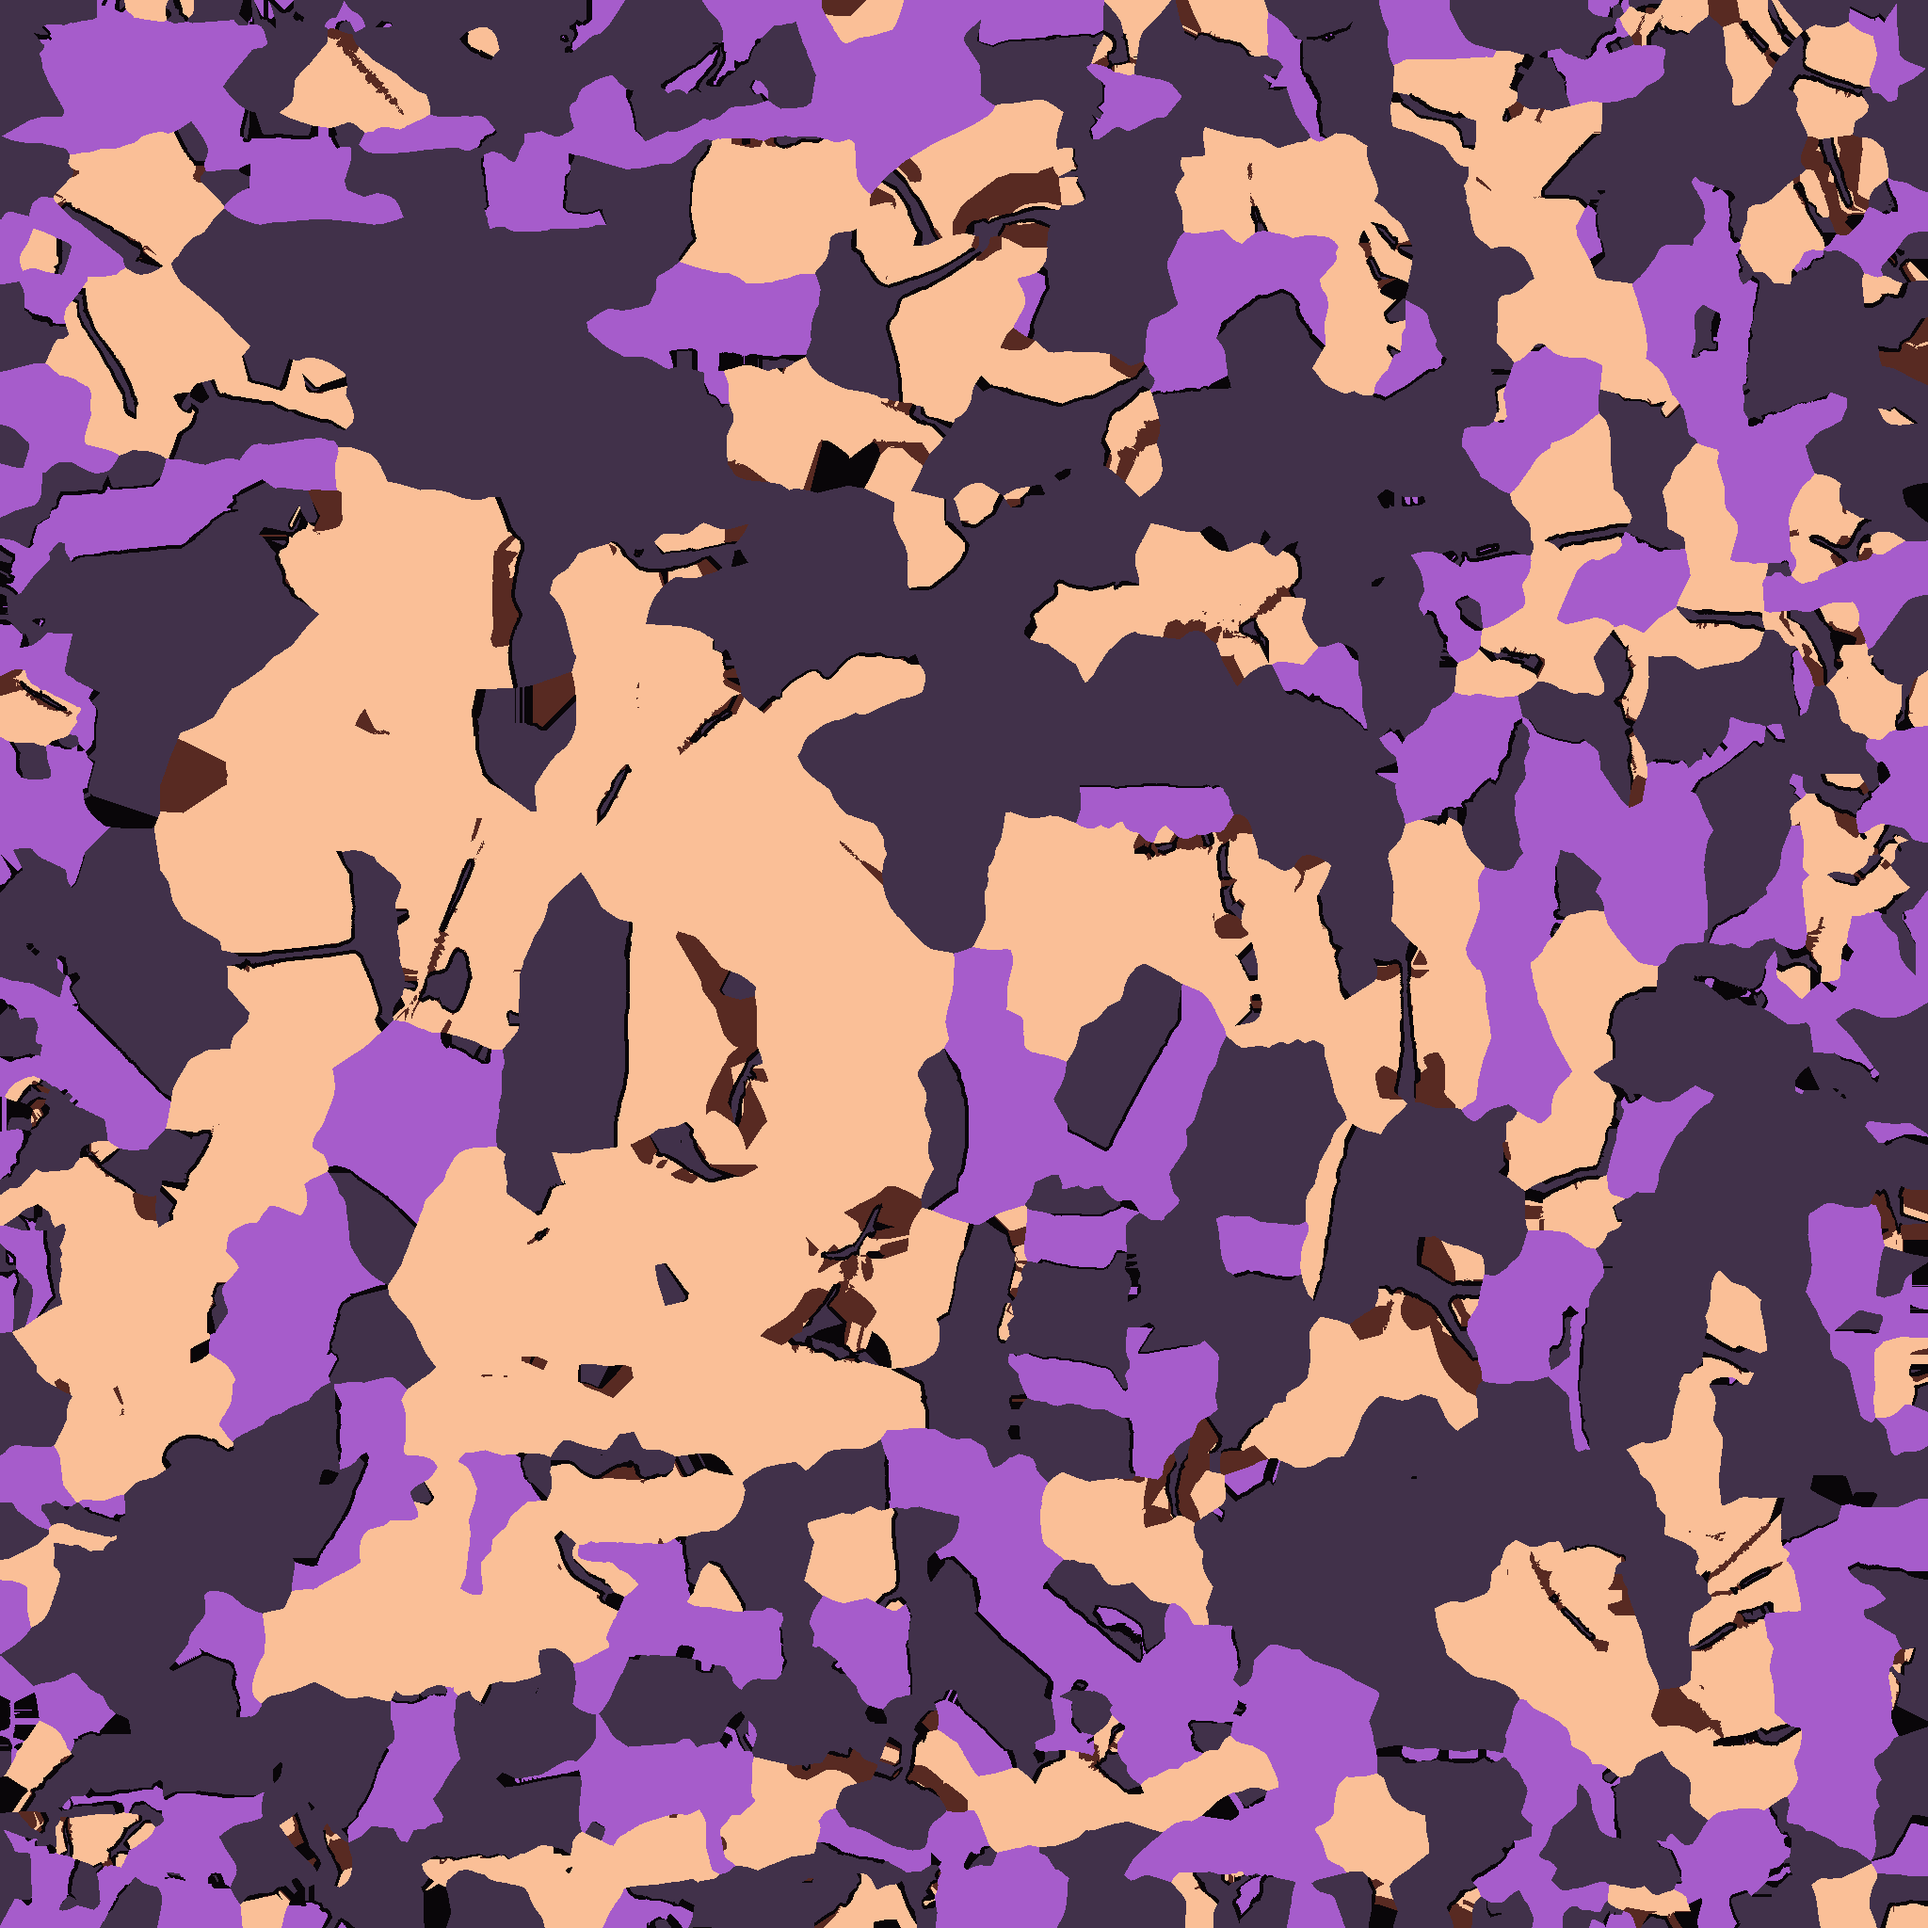
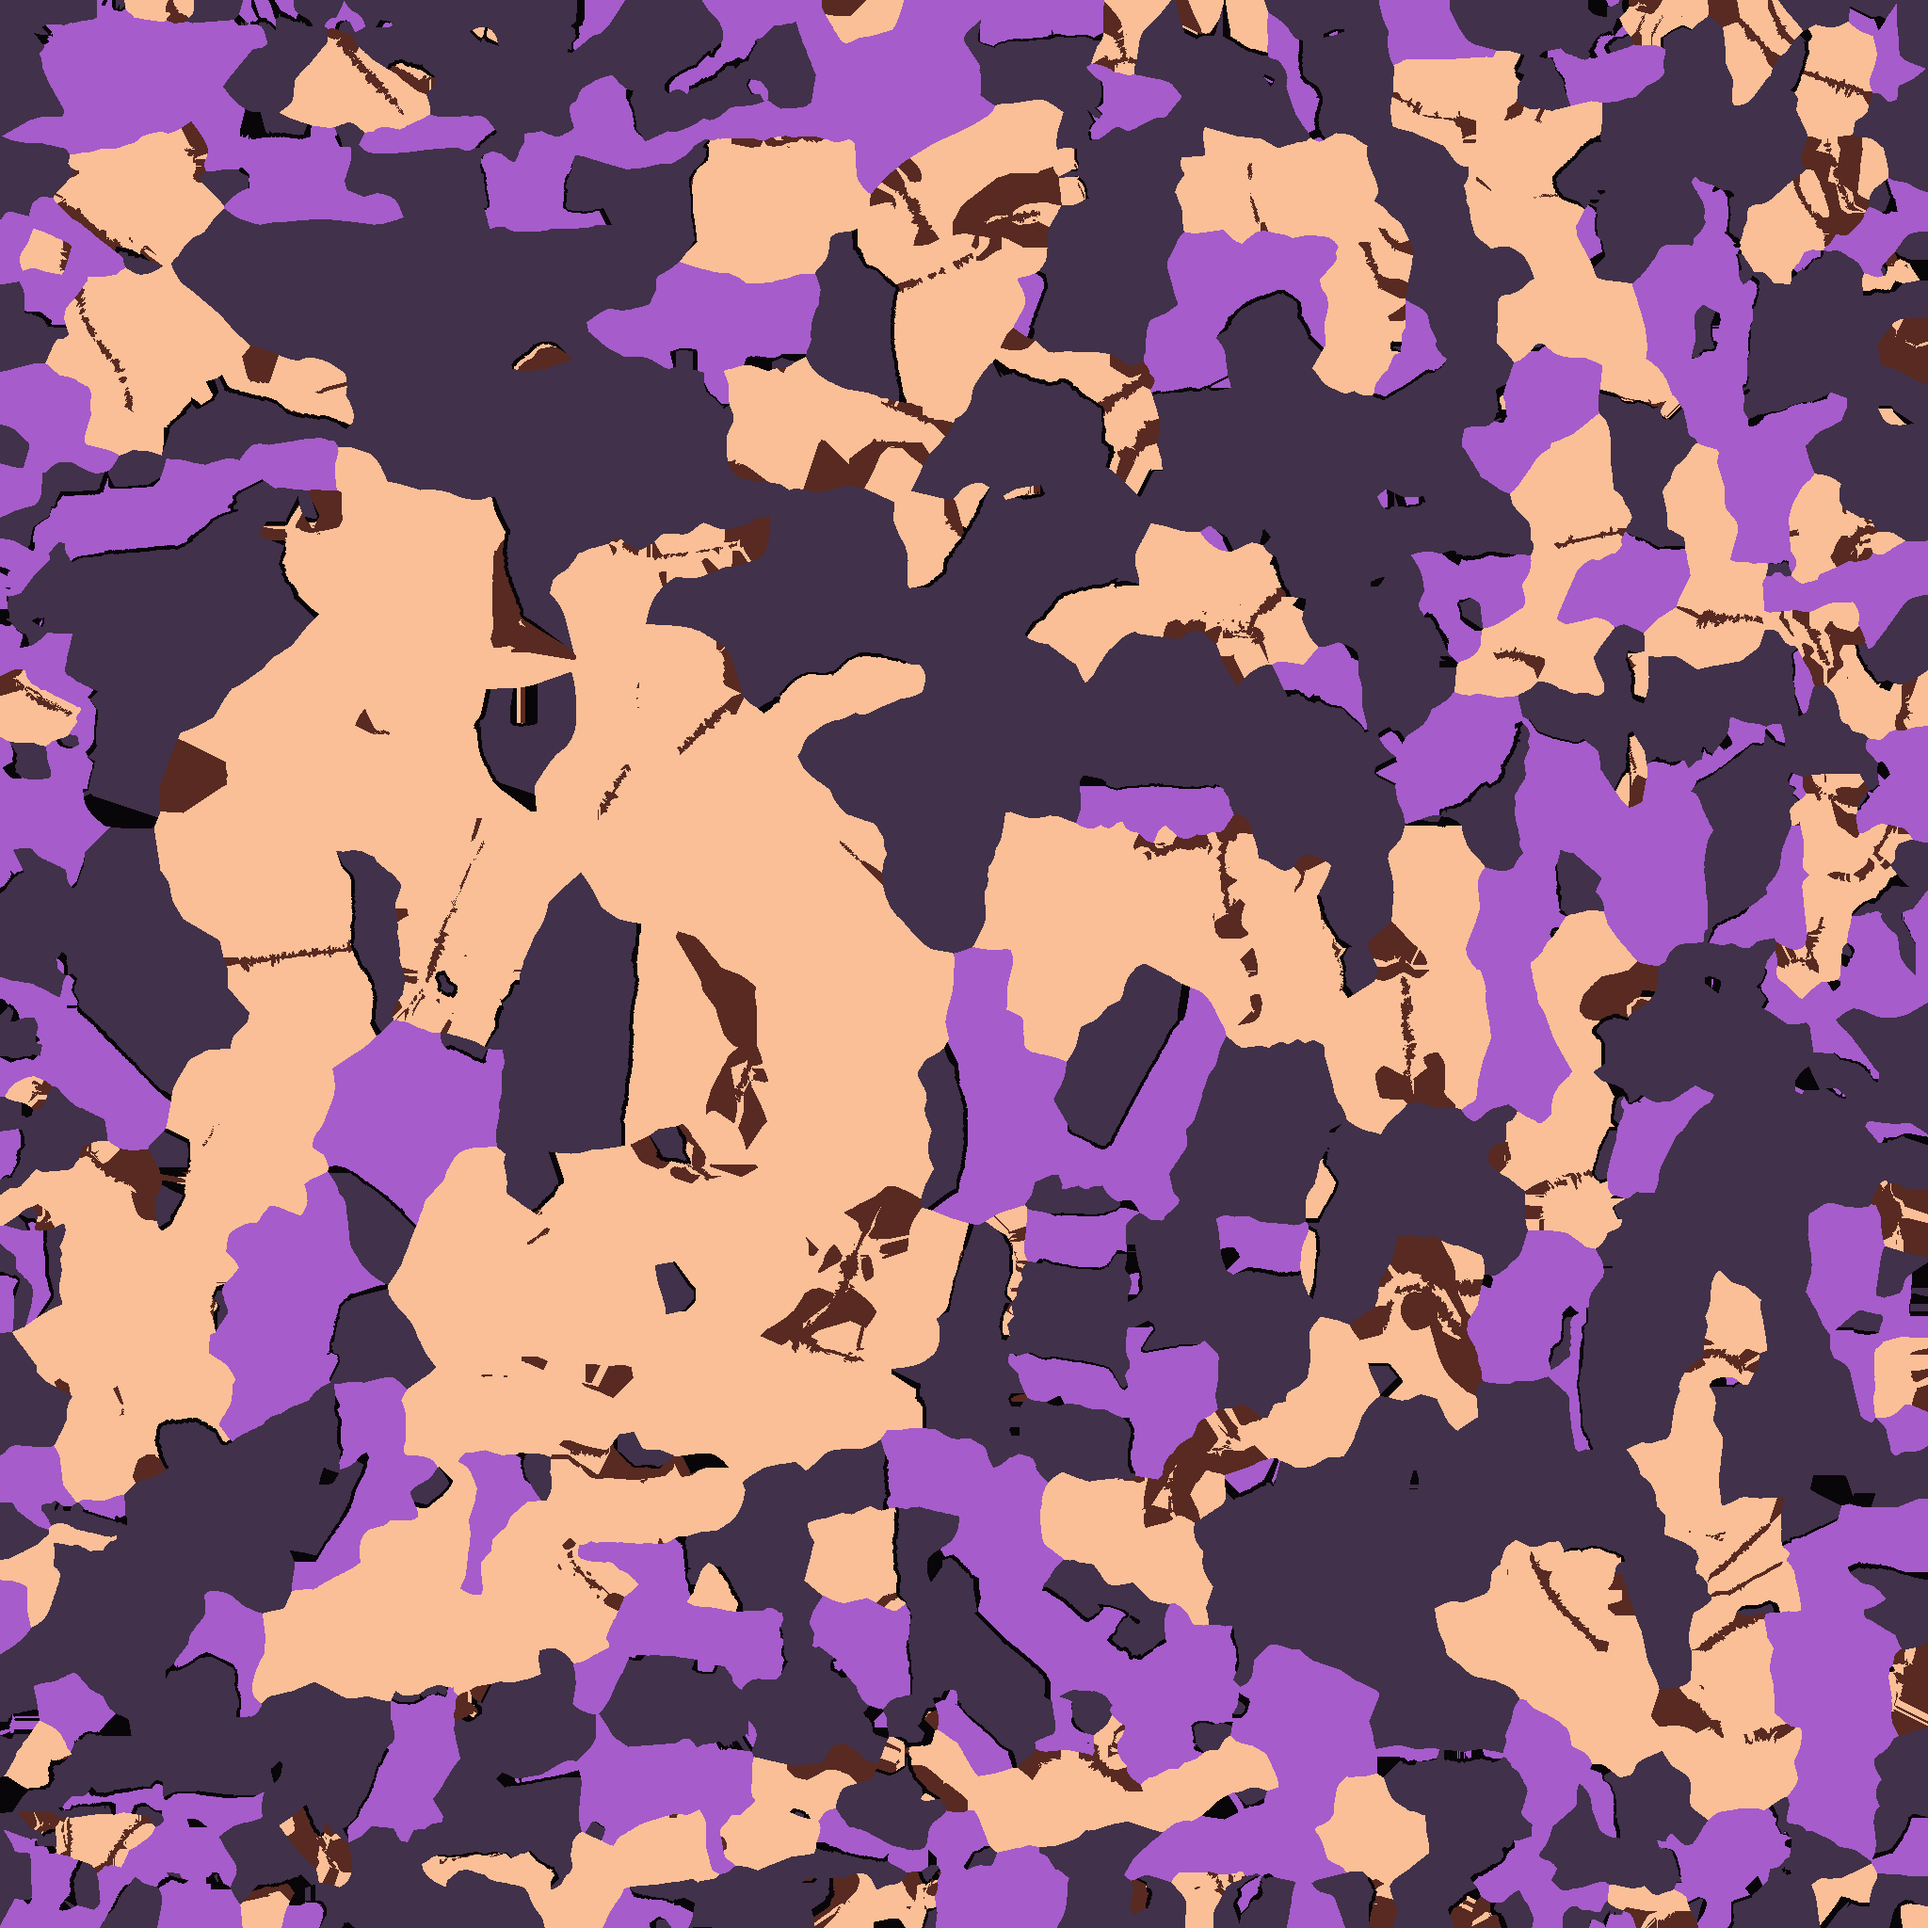
Kael's forearms drawn better (preview version 24): smooth edges between the colours, the fingers' joints as Ren's
- tools/kael_arm_paint.py: the colours' edges smoothed on the model (2.2 mm; the glove's on the skin 4.2 mm, its teeth
  on the knuckles gone); on the open hand each finger's joints along its own axis, short creases on its back and palm
- Docs: KAEL.md, HANDOFF (version 24 published)

Claude-Session: https://claude.ai/code/session_014XUVKvWBodq3kjfPiKyGRo

diff --git a/tools/kael_arm_paint.py b/tools/kael_arm_paint.py
@@ -28,7 +28,9 @@ UNIT = .19                       # m per model unit on Kael's hands (about: 0.15
 CLEAN, INK_W, CREASE = .0028, .0011, .0028   # m: the classes' vote's reach; the ink lines' width; the crease ball's diameter
 FACING = .3                      # the creases: the skin in the ball facing the texel's (normals over 107 degrees apart)
 VALLEY = 400.                     # the full model's valleys drawn: deeper than this (1/m: a crease's mean curvature)
-JOINTS, JOINT_W, JOINT_STEP, JOINT_MIN, JOINT_THUMB = (), .0013, .0012, .02, .028   # the fingers' joints (off: tried (.42, .72), the distance from the glove's edge drew a loop on the thumb, none on the fingers): at these shares of their length from the glove, so wide (m); the texels thinned to so far apart (m); a finger at least so much of the skin; under so long (m) a thumb (one joint)
+JOINTS, JOINT_W, JOINT_STEP, JOINT_MIN, JOINT_LONG = (.45, .74), .0011, .0012, .02, .012   # the fingers' joints: at these shares of their length from the glove (along the finger's own axis; from the distance to the glove's edge, tried first, a loop on the thumb), so wide (m); the skin thinned to so far apart (m); a finger at least so much of the skin and so long (m)
+SMOOTH, SMOOTH_SKIN, GRID = .0022, .0042, .0005   # m: the classes' edges smoothed over so far (the glove's on the skin over [1]), counted on cells so big
+JOINT_SIDE = .55                 # the joints' lines only where the finger's surface faces its back or palm (|normal . side| under this)
 LINE_DARK = 22                   # Meshy's lines on the skin: so much darker (0-255) than the skin round them
 SKIN, PLUM, PURPLE = 0, 1, 2
 PAL = {SKIN: (250, 191, 151), PLUM: (65, 49, 74), PURPLE: (166, 92, 203)}   # the bust's palette (tools/kael_bust_attach.py)
@@ -60,38 +62,33 @@ def valleys(glb):
 
 def joints(pos, nor, skin, cut, glove, mode, u):
     """the fingers' joints drawn as Ren's (19/11): per finger (a piece of skin on its own once the lines between the
-    fingers cut it, JOINT_MIN of the skin's texels at least) the distance along it from the glove's edge (Dijkstra over
-    the texels thinned to JOINT_STEP m, their neighbours within 2.5 steps); across it a line JOINT_W wide at JOINTS of its
-    length (its last for the thumb, the shortest), all round it. Returns the texels on them."""
+    fingers and the glove's ink cut it, JOINT_MIN of the skin at least, JOINT_LONG m long at least) its own axis (the piece's
+    longest direction), from its end by the glove; across it a line JOINT_W wide at JOINTS of its length (its last only for
+    the shortest, the thumb). Returns the texels on them; none where the fingers are not apart (the fist)."""
     from scipy.sparse import coo_matrix
-    from scipy.sparse.csgraph import connected_components, dijkstra
+    from scipy.sparse.csgraph import connected_components
     on = np.nonzero(skin & ~cut)[0]; step = JOINT_STEP * u
-    key = np.floor(pos[on] / step).astype(np.int64); _, first, inv = np.unique(key, axis=0, return_index=True, return_inverse=True)
-    sp = on[first]; tr = cKDTree(pos[sp]); pairs = tr.query_pairs(2.5 * step, output_type='ndarray')
-    w = np.linalg.norm(pos[sp[pairs[:, 0]]] - pos[sp[pairs[:, 1]]], axis=1)
-    G = coo_matrix((w, (pairs[:, 0], pairs[:, 1])), shape=(len(sp), len(sp))).tocsr()
-    nc, lab = connected_components(G, directed=False)
-    gd, _ = cKDTree(pos[glove]).query(pos[sp]); src = np.nonzero(gd < 2 * step)[0]
-    out = np.zeros(len(pos), bool); n_f = 0; c0 = pos[skin].mean(0)
-    sizes = np.bincount(lab, minlength=nc)
-    if (sizes > JOINT_MIN * len(sp)).sum() < 4:   # (the fingers not apart: no joints rather than wrong ones)
-        print('joints: the fingers are not apart (%d pieces): none drawn' % int((sizes > JOINT_MIN * len(sp)).sum())); return out
-    for c in np.nonzero(sizes > JOINT_MIN * len(sp))[0]:
-        mem = lab == c; s_ = src[mem[src]]
-        if not len(s_): continue
-        d = dijkstra(G, directed=False, indices=s_, min_only=True); d = np.where(mem, d, np.inf); L = d[mem].max()
-        if not np.isfinite(L) or L < 3 * step: continue
-        n_f += 1
-        # (the texels of this finger: their thinned point's distance)
-        # (each texel's distance smooth: the mean of its 6 nearest thinned points', by their nearness; the nearest alone
-        # made the lines dashes a step long)
-        mi = np.nonzero(mem & np.isfinite(d))[0]; tt = on[mem[lab[inv]] & np.isfinite(d[inv])]
-        dq, iq = cKDTree(pos[sp[mi]]).query(pos[tt], 6); wq = 1 / np.maximum(dq, .2 * step) ** 2; dd = (d[mi][iq] * wq).sum(1) / wq.sum(1)
-        back = np.ones(len(tt), bool)   # (both sides: the joints' creases go round the finger, as Ren's)
-        fr = JOINTS if L > JOINT_THUMB * u else JOINTS[-1:]
-        for f in fr:
-            out[tt[back & (np.abs(dd - f * L) < JOINT_W / 2 * u)]] = True
-    print('joints: %d fingers, %d texels' % (n_f, int(out.sum())))
+    key = np.floor(pos[on] / step).astype(np.int64); _, first, inv = np.unique(key, axis=0, return_index=True, return_inverse=True); inv = inv.ravel()
+    sp = on[first]; pairs = cKDTree(pos[sp]).query_pairs(1.8 * step, output_type='ndarray')
+    nc, lab = connected_components(coo_matrix((np.ones(len(pairs)), (pairs[:, 0], pairs[:, 1])), shape=(len(sp), len(sp))), directed=False)
+    sizes = np.bincount(lab, minlength=nc); big = np.nonzero(sizes > JOINT_MIN * len(sp))[0]
+    gt = cKDTree(pos[glove]); out = np.zeros(len(pos), bool); fing = []
+    for c in big:
+        X = pos[sp[lab == c]]; m0 = X.mean(0); ax = np.linalg.svd(X - m0, full_matrices=False)[2][0]; t = (X - m0) @ ax
+        lo, hi = t.min(), t.max()
+        if (hi - lo) < JOINT_LONG * u: continue
+        if gt.query(m0 + ax * hi)[0] < gt.query(m0 + ax * lo)[0]: ax, t, lo, hi = -ax, -t, -hi, -lo   # (from the end by the glove)
+        fing.append((c, m0, ax, lo, hi))
+    if len(fing) < 4:
+        print('joints: the fingers are not apart (%d long pieces): none drawn' % len(fing)); return out
+    shortest = min(f[4] - f[3] for f in fing)
+    for c, m0, ax, lo, hi in fing:
+        tt = on[lab[inv] == c]; t = (pos[tt] - m0) @ ax; L = hi - lo
+        lat = np.cross(ax, [0., 0., 1.]); lat /= max(np.linalg.norm(lat), 1e-9)   # (the finger's sides: across it, in the hand's plane)
+        front = np.abs(nor[tt] @ lat) < JOINT_SIDE   # (the creases on its back and its palm side, not round its sides: Ren's)
+        for f in (JOINTS[-1:] if L < 1.05 * shortest else JOINTS):
+            out[tt[front & (np.abs(t - (lo + f * L)) < JOINT_W / 2 * u)]] = True
+    print('joints: %d fingers (%s mm long), %d texels' % (len(fing), [round(1000 * (f[4] - f[3]) / u) for f in fing], int(out.sum())))
     return out
 
 
@@ -111,6 +108,25 @@ def main(src, out, debug=None, full=None):
     for _ in range(3):
         def vote(q, d, c_=cl2): v = np.stack([((c_[q] == c) & (d < CLEAN * u)).sum(1) for c in range(3)], 1); return v.argmax(1)
         cl2 = near(48, vote)
+    # (and their edges smooth curves: per class its share within SMOOTH on the model (counted on a grid of GRID cells), each
+    # texel the class with the largest share: the edges follow no triangle's or texel's steps)
+    g = GRID * u; key = np.floor(pos / g).astype(np.int64); cells, ci = np.unique(key, axis=0, return_inverse=True); ci = ci.ravel()
+    cnt = np.zeros((len(cells), 3)); np.add.at(cnt, (ci, cl2), 1); cc = np.zeros((len(cells), 3)); np.add.at(cc, ci, pos); cc /= cnt.sum(1, keepdims=True)
+    ct = cKDTree(cc); sh = np.zeros((len(cells), 3))
+    for a in range(0, len(cells), 50000):
+        for i, q in enumerate(ct.query_ball_point(cc[a:a + 50000], SMOOTH * u, workers=-1)): sh[a + i] = cnt[q].sum(0)
+    sh /= np.maximum(sh.sum(1, keepdims=True), 1)
+    dq, iq = ct.query(pos, 4, workers=-1); wq = 1 / np.maximum(dq, .1 * g) ** 2
+    cl3 = (sh[iq] * wq[..., None]).sum(1).argmax(1)
+    # (the glove's edge on the skin smoother still, over SMOOTH_SKIN: there Meshy's paint had teeth several mm long; the
+    # purple bands and stripe keep the finer smoothing, their corners)
+    sh2 = np.zeros((len(cells), 2))
+    for a in range(0, len(cells), 50000):
+        for i, q in enumerate(ct.query_ball_point(cc[a:a + 50000], SMOOTH_SKIN * u, workers=-1)): sh2[a + i] = cnt[q][:, [SKIN, PLUM]].sum(0)
+    sp_ = (sh2[iq][..., 0] * wq).sum(1) / np.maximum(((sh2[iq][..., 0] + sh2[iq][..., 1]) * wq).sum(1), 1e-9)
+    sg = (cl3 == SKIN) | (cl3 == PLUM); cl3 = np.where(sg, np.where(sp_ > .5, SKIN, PLUM), cl3)
+    print('edges smoothed over %.1f mm (%d cells of %.1f mm; the glove on the skin over %.1f): %d texels changed' % (1000 * SMOOTH, len(cells), 1000 * GRID, 1000 * SMOOTH_SKIN, int((cl3 != cl2).sum())))
+    cl2 = cl3
     print('classes cleaned: %d of %d texels changed (skin %d, plum %d, purple %d)' % (int((cl2 != cl).sum()), len(cl), *np.bincount(cl2, minlength=3)))
     out_c = np.array([PAL[c] for c in cl2], float)
     # (the ink along the edges between the classes: a texel of another class within INK_W/2)

diff --git a/docs/meshy/KAEL.md b/docs/meshy/KAEL.md
@@ -816,6 +816,12 @@ ok sul costo (84 crediti, saldo da 970 a 886) e sui disegni ("si").
   del modello intero di Meshy (pieghe delle nocche) e le sue righe leggere (unghie). `arm_parts` prende
   `<glb>_painted.png` se c'è. Provate e lasciate: le righe delle articolazioni dalla distanza dal bordo del guanto (sul
   pollice un rombo, sulle dita niente).
+- **Ancora meglio** (Denis, su v23: "decisamente molto meglio ma migliora i disegni"; anteprima versione 24): i bordi fra i
+  colori come curve lisce (per colore la sua quota entro 2,2 mm sul modello, contata su celle di 0,5 mm; fra pelle e
+  guanto entro 4,2 mm: sulle nocche i denti di Meshy erano lunghi qualche mm); sulla mano aperta le pieghe delle
+  articolazioni come Ren, corte, sul dorso e sul palmo (non sui fianchi): ogni dito (pezzo di pelle a sé, lungo almeno
+  12 mm) lungo il suo asse, dal bordo del guanto, al 45% e al 74% della sua lunghezza (il pollice, il più corto, solo
+  l'ultima). Nel pugno le dita sono un pezzo solo: niente righe delle articolazioni, restano quelle fra le dita.
 - Per dopo: `kael_hands.*` e `kael_gloves.*` non servono più con gli avambracci (toglierli se Denis li approva, l'anteprima
   pesa meno); da vicinissimo la banda del gomito si vede aperta verso il braccio (un anello largo, come nel foglio).
 
